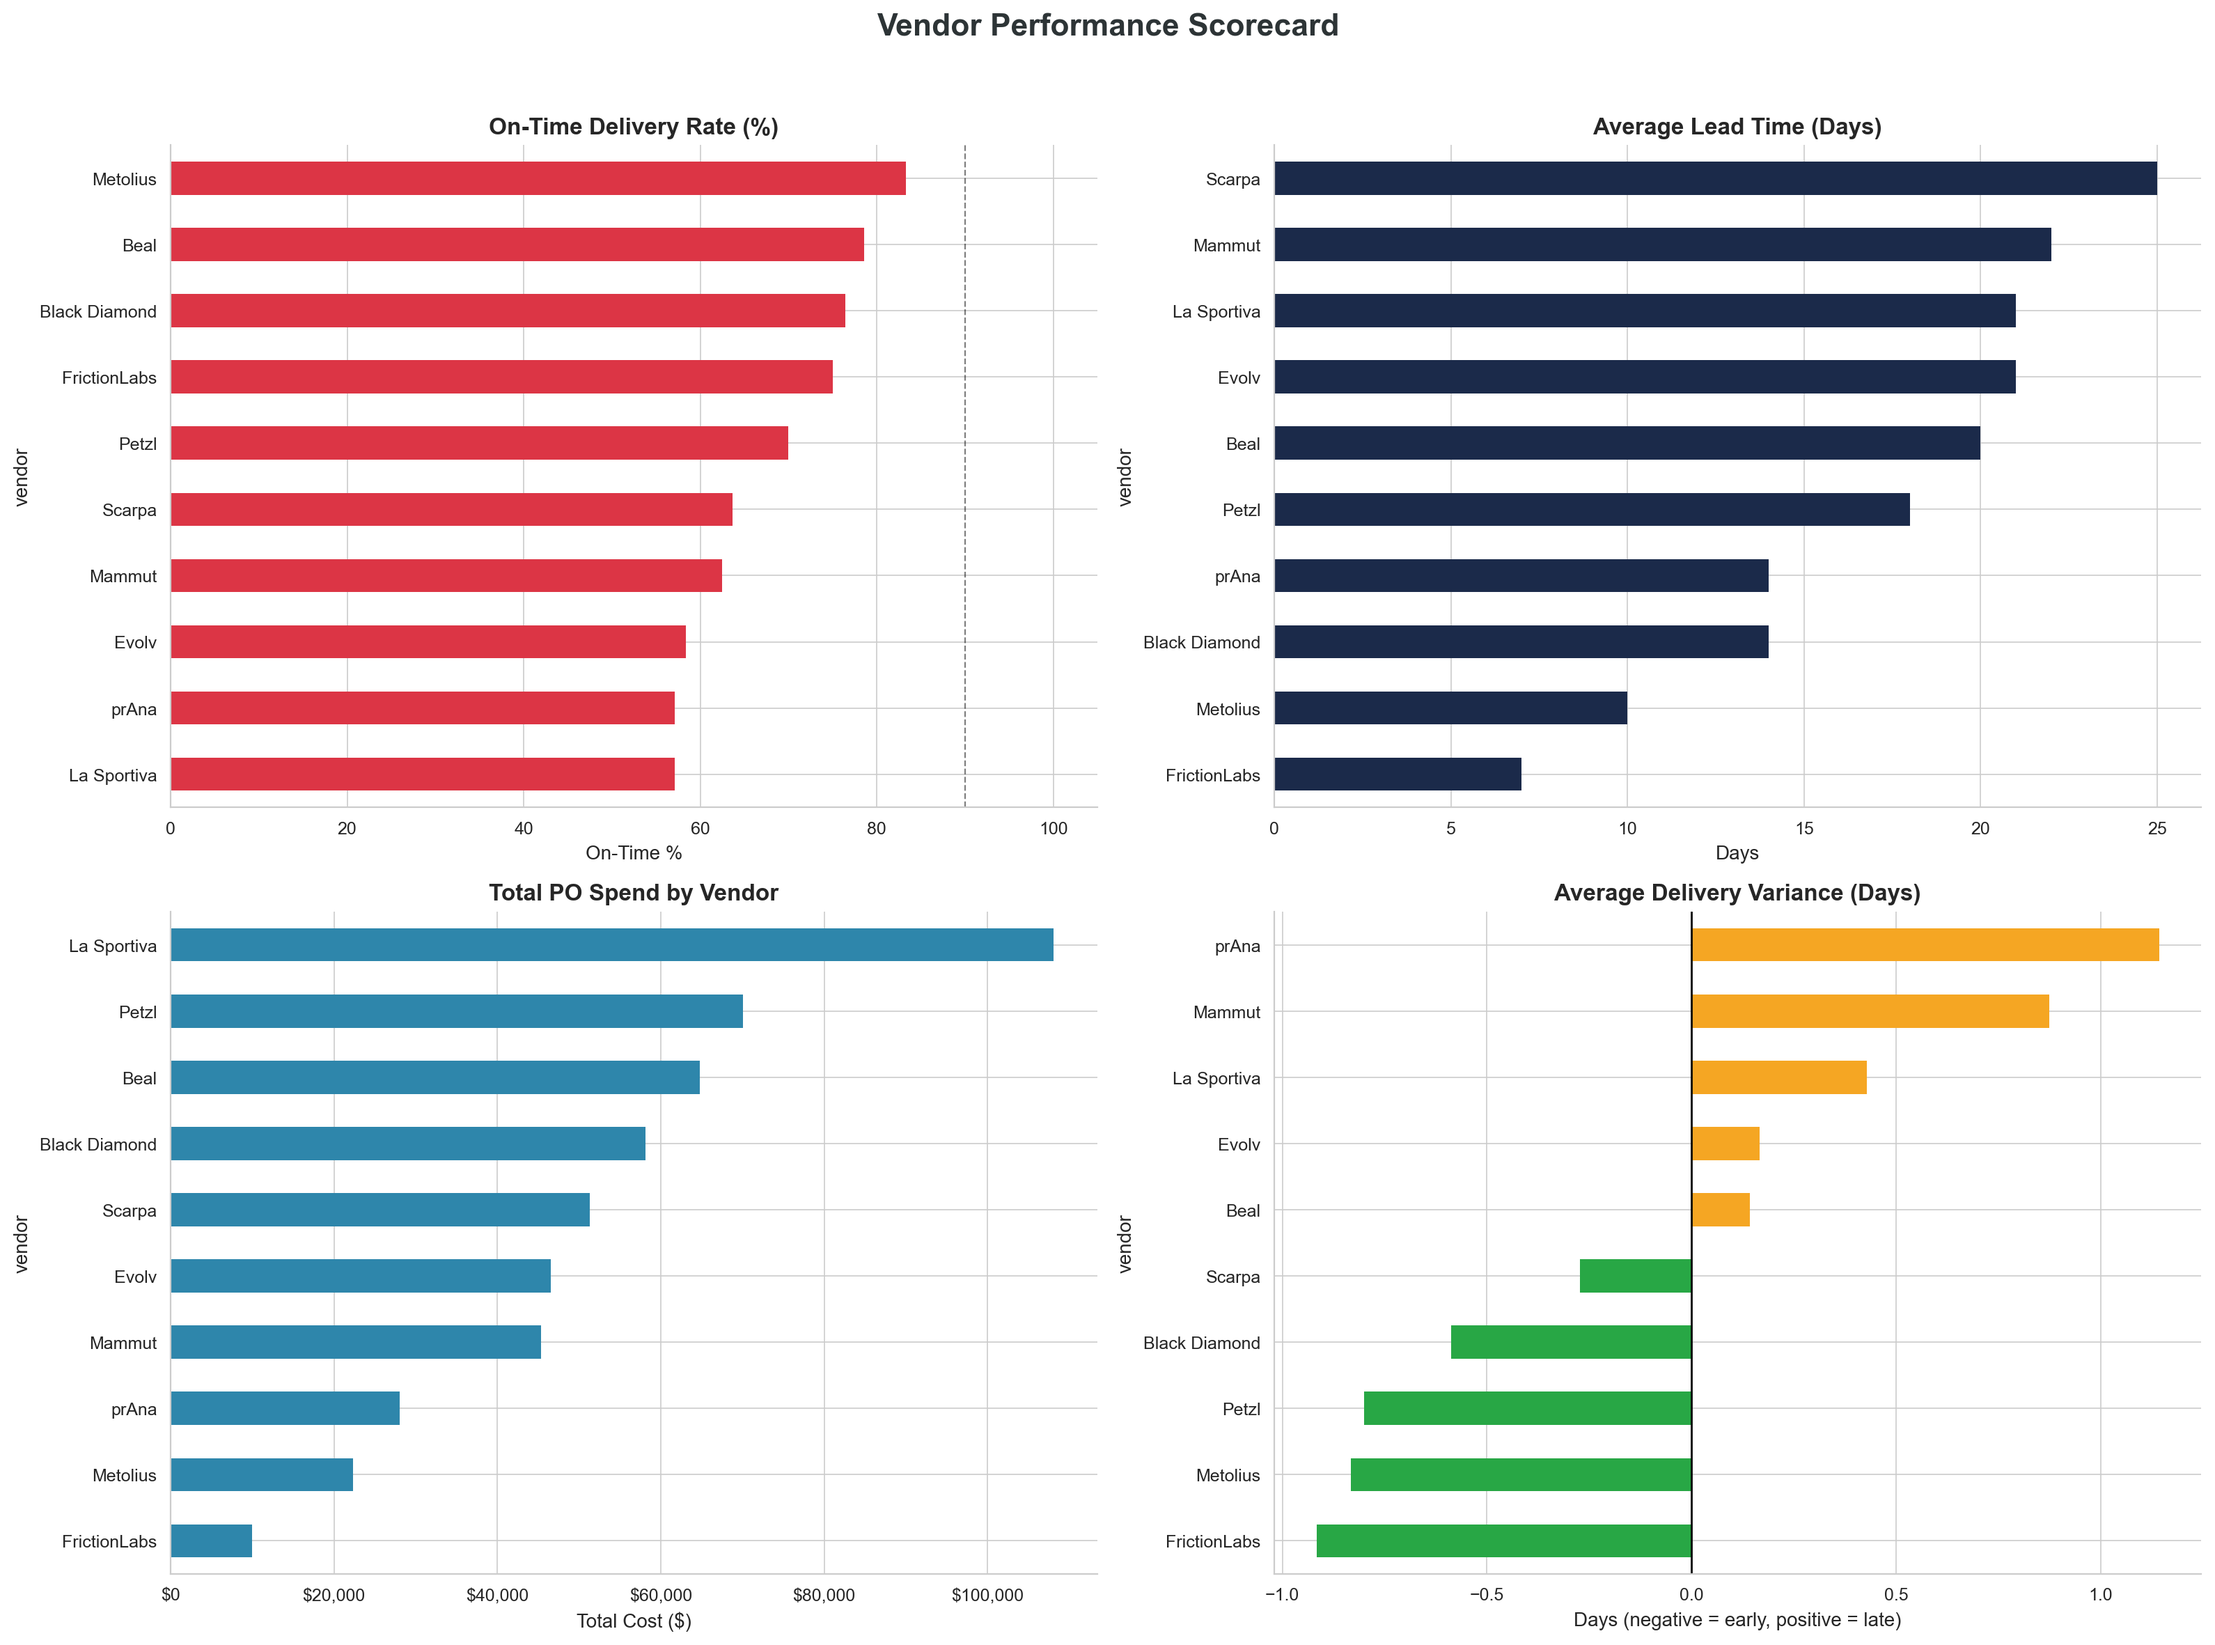
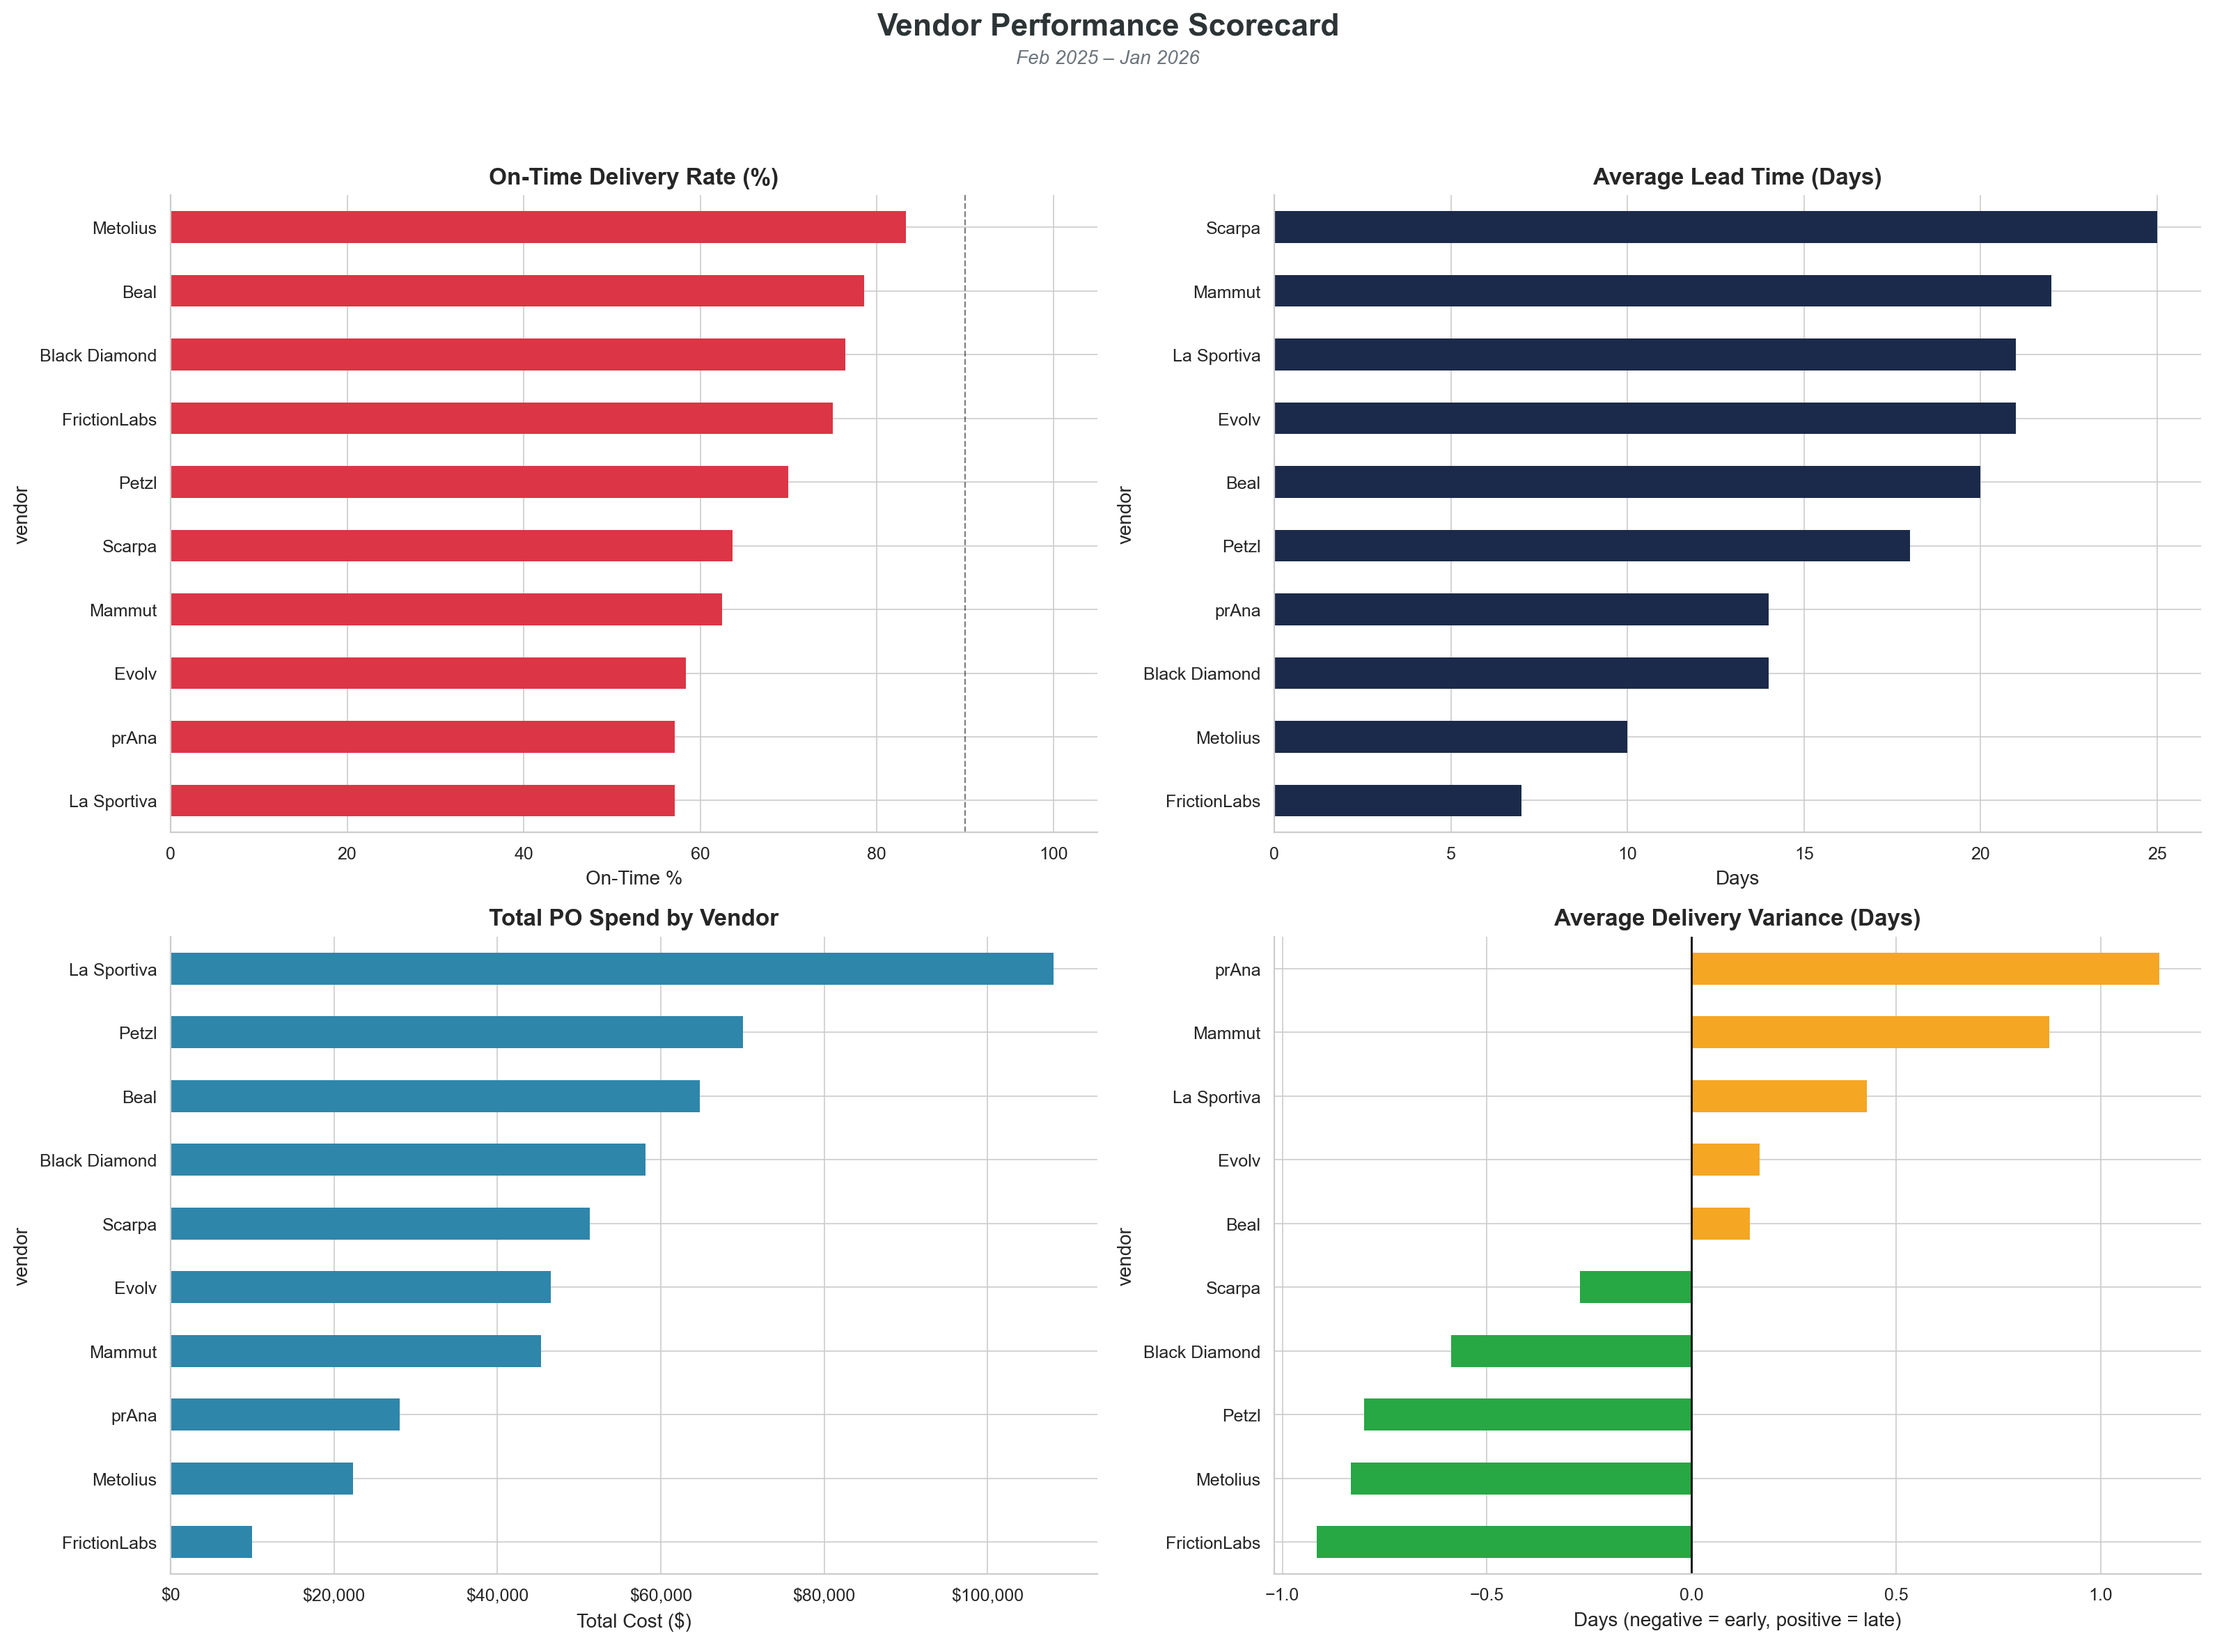
updated readme and vendor_scorecard.py to add timescale

diff --git a/src/visualizations/vendor_scorecard.py b/src/visualizations/vendor_scorecard.py
@@ -16,8 +16,15 @@ def create_vendor_scorecard(po_df):
     """Vendor performance scorecard - OTD, lead time, spend, variance."""
     
     fig, axes = plt.subplots(2, 2, figsize=(16, 12), facecolor='white')
+    
+    # Get date range from the data for context
+    date_min = po_df['po_date'].min().strftime('%b %Y')
+    date_max = po_df['po_date'].max().strftime('%b %Y')
+    
     fig.suptitle('Vendor Performance Scorecard', fontsize=16,
-                 fontweight='bold', color=COLORS['text'])
+                 fontweight='bold', color=COLORS['text'], y=0.98)
+    fig.text(0.5, 0.95, f'{date_min} – {date_max}', ha='center',
+             fontsize=10, color=COLORS['text_light'], style='italic')
     
     received_pos = po_df[po_df['status'] == 'Received']
     
@@ -60,7 +67,7 @@ def create_vendor_scorecard(po_df):
     ax.axvline(x=0, color='black', linewidth=1)
     style_chart_basic(ax)
     
-    plt.tight_layout(rect=[0, 0, 1, 0.96])
+    plt.tight_layout(rect=[0, 0, 1, 0.93])
     plt.savefig(os.path.join(CHARTS_DIR, '08_vendor_scorecard.png'),
                 bbox_inches='tight', facecolor='white')
     plt.close()

diff --git a/README.md b/README.md
@@ -49,14 +49,14 @@ This tool analyzes retail data and **produces easy-to-understand reports and cha
 
 ![In-Stock Rate by Gym](output/charts/05_instock_by_gym.png)
 
-**Sample insight:** *Movement Thornton and Movement Glen Burnie are below 40% in-stock rate, these locations should be prioritized in this week's allocation. Meanwhile, $7,969 in overstock inventory should be reviewed for transfers to understocked gyms.*
+**Sample insight:** *All 30+ gyms are below our target In-Stock Rate of 90%!.*
 
 <details>
 <summary><strong>📖 Key Terms</strong></summary>
 
 | Term | Definition | Calculation |
 |------|------------|-------------|
-| **In-Stock Rate** | Percentage of SKU-locations with inventory available to sell | `SKUs In Stock / Total SKUs × 100` |
+| **In-Stock Rate** | Percentage of SKU-locations with inventory available to sell | `SKUs In-Stock / Total SKUs * 100` |
 | **Weeks of Supply** | How long current inventory will last at current sales rate | `On-Hand Units / Avg Weekly Sales` |
 | **Overstock** | Inventory exceeding 12 weeks of supply — ties up capital | `Weeks of Supply > 12` |
 | **SKU-Location** | A unique product at a specific gym (e.g., "Tarantula size 42 at RiNo") | — |
@@ -75,7 +75,7 @@ This tool analyzes retail data and **produces easy-to-understand reports and cha
 
 ![Margin Analysis](output/charts/03_margin_analysis.png)
 
-**Sample insight:** *Climbing Shoes generate the highest revenue at $4.3M with a 50%+ gross margin. Monthly trends show peak sales in April-May and September-October, aligning with outdoor climbing season, this is when we should be best stocked.*
+**Sample insight:** *La Sportiva generated the greatest gross margin over the 12 month period (Feb 2025 - Jan 2026).*
 
 <details>
 <summary><strong>📖 Key Terms</strong></summary>
@@ -83,7 +83,7 @@ This tool analyzes retail data and **produces easy-to-understand reports and cha
 | Term | Definition | Calculation |
 |------|------------|-------------|
 | **Gross Margin $** | Dollar profit after subtracting product cost | `Revenue - Cost of Goods Sold` |
-| **Gross Margin %** | Percentage of revenue kept as profit | `(Revenue - Cost) / Revenue × 100` |
+| **Gross Margin %** | Percentage of revenue kept as profit | `(Revenue - Cost) / Revenue * 100` |
 | **Seasonality** | Predictable sales patterns tied to time of year | — |
 | **Chase Buy** | Additional order placed mid-season to restock fast sellers | — |
 
@@ -101,7 +101,7 @@ This tool analyzes retail data and **produces easy-to-understand reports and cha
 
 ![Vendor Scorecard](output/charts/08_vendor_scorecard.png)
 
-**Sample insight:** *Petzl leads vendor performance with 89.5% on-time delivery. Several vendors are below the 85% threshold and may need follow-up on PO confirmations and shipping commitments, exactly the kind of operational follow-up outlined in the job description.*
+**Sample insight:** *All vendors are below the 90% on time threshold.*
 
 <details>
 <summary><strong>📖 Key Terms</strong></summary>
